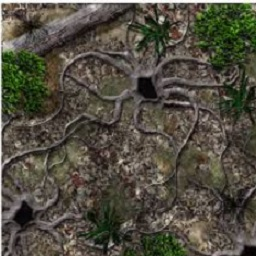
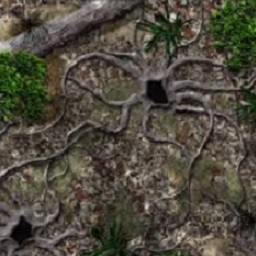
idk why im committing

diff --git a/main.js b/main.js
@@ -423,13 +423,13 @@ function setupScene() {
 	var floorTex = t.ImageUtils.loadTexture('images/floor-forest.jpg');
 	floorTex.wrapS = t.RepeatWrapping;
 	floorTex.wrapT = t.RepeatWrapping;
+	floorTex.repeat.set(20,20);
 	var floorMesh = new t.MeshBasicMaterial({map: floorTex});
 	// floorTex = new t.MeshLambertMaterial({color: 0xABCABC})
 	var floor = new t.Mesh(
 			new t.CubeGeometry(units * UNITSIZE, 10, units * UNITSIZE),
 			floorMesh
 	);
-	console.log(floorTex, floor)
 	scene.add(floor);
 	for (var i = 0; i < mapW-1; i++) {
 		for (var j = 0; j < mapH-1; j++) {
